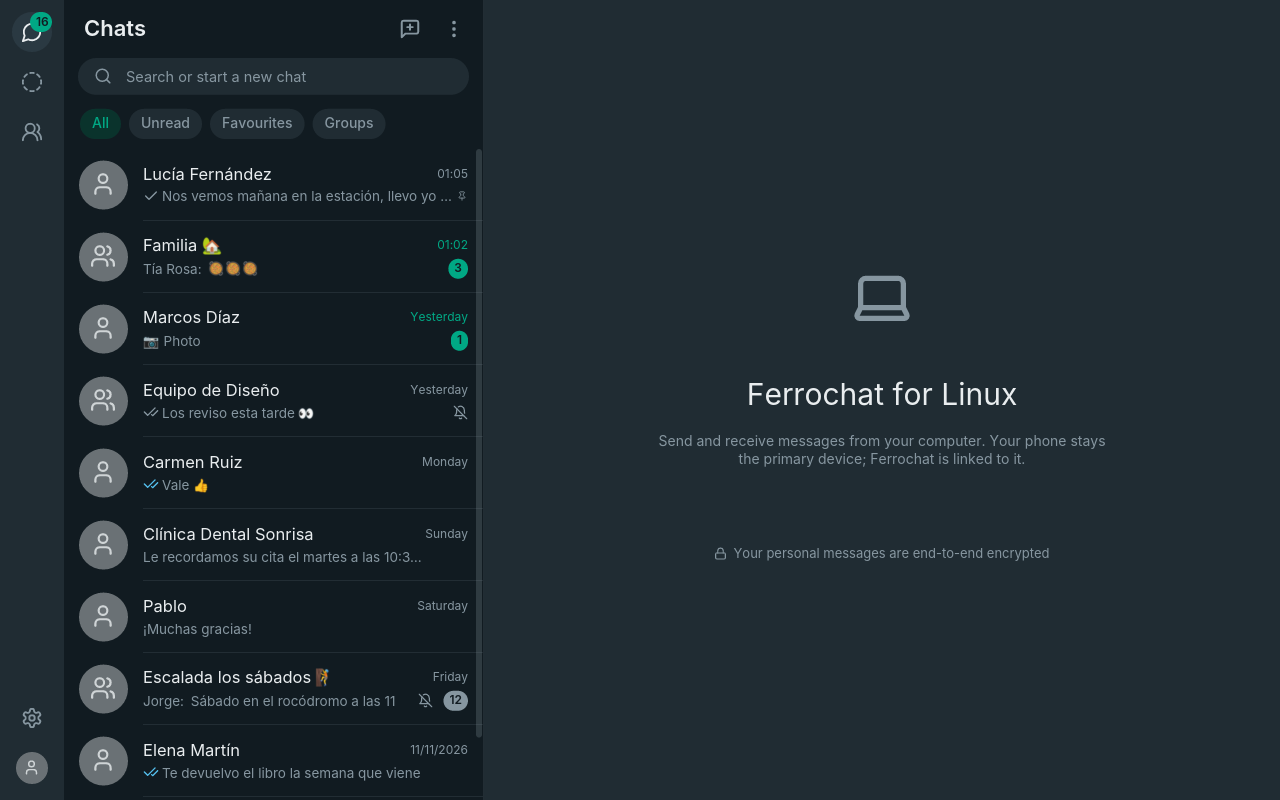
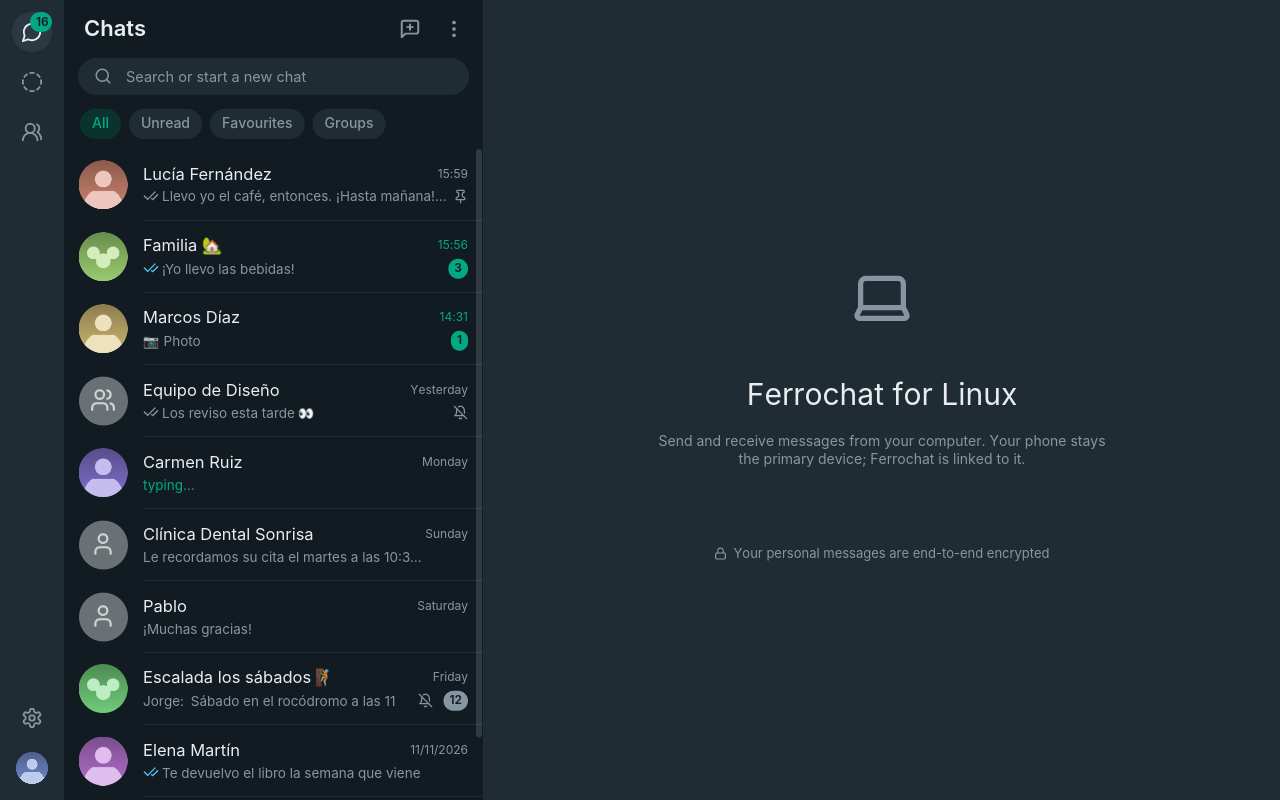
docs: describe the parity features and refresh screenshots
Also unwrap history-stored edited messages and keep search highlighting
panic-free on odd Unicode; screenshot mode ignores the stray X pointer.

Claude-Session: https://claude.ai/code/session_011GZUAJAc8TohrBZJFGozGm

diff --git a/src/net/convert.rs b/src/net/convert.rs
@@ -21,6 +21,8 @@ pub fn base_message(msg: &wa::Message) -> &wa::Message {
             .as_option()
             .or(cur.view_once_message.as_option())
             .or(cur.document_with_caption_message.as_option())
+            // History stores an edited message as its latest content.
+            .or(cur.edited_message.as_option())
             .and_then(|f| f.message.as_option());
         match inner {
             Some(m) => cur = m,
@@ -73,6 +75,7 @@ pub fn is_view_once(msg: &wa::Message) -> bool {
             .ephemeral_message
             .as_option()
             .or(cur.document_with_caption_message.as_option())
+            .or(cur.edited_message.as_option())
             .and_then(|f| f.message.as_option())
         {
             Some(m) => cur = m,
@@ -1231,6 +1234,20 @@ mod parity_tests {
             content_from_wa(&bare),
             Some(Content::Video { media: None, .. })
         ));
+    }
+
+    #[test]
+    fn history_edited_wrapper_shows_the_latest_text() {
+        let wrapped = wa::Message {
+            edited_message: buffa_some(wa::message::FutureProofMessage {
+                message: buffa_some(build_text("latest text")),
+            }),
+            ..Default::default()
+        };
+        assert_eq!(
+            content_from_wa(&wrapped),
+            Some(Content::Text("latest text".into()))
+        );
     }
 
     #[test]

diff --git a/src/ui/chat.rs b/src/ui/chat.rs
@@ -1183,7 +1183,7 @@ pub fn highlight_spans<'a>(
     }
     let mut spans = Vec::new();
     let mut at = 0;
-    while let Some(pos) = lower[at..].find(term) {
+    while let Some(pos) = lower.get(at..).and_then(|rest| rest.find(term)) {
         let (start, end) = (at + pos, at + pos + term.len());
         if !s.is_char_boundary(start) || !s.is_char_boundary(end) {
             break;
@@ -1502,6 +1502,22 @@ pub fn viewer<'a>(app: &'a App, id: &'a str) -> El<'a> {
 #[cfg(test)]
 mod tests {
     use super::*;
+
+    #[test]
+    fn highlight_spans_split_around_matches() {
+        let spans = highlight_spans("Hola hola HOLA", "hola", Color::WHITE);
+        // plain, match, plain, match, plain, match => 3 matches + 2 gaps
+        assert_eq!(spans.len(), 5);
+        assert_eq!(
+            highlight_spans("nothing here", "zzz", Color::WHITE).len(),
+            1
+        );
+        // Characters whose lower-case form has a different length are never
+        // sliced at a wrong boundary.
+        assert_eq!(highlight_spans("İstanbul", "stan", Color::WHITE).len(), 1);
+        assert_eq!(highlight_spans("", "x", Color::WHITE).len(), 1);
+        assert_eq!(highlight_spans("ñandú ñ", "ñ", Color::WHITE).len(), 3);
+    }
 
     #[test]
     fn fit_keeps_aspect_and_bounds() {

diff --git a/src/app/mod.rs b/src/app/mod.rs
@@ -1856,17 +1856,18 @@ impl App {
         };
         let ui = |u: Ui| Task::done(Message::Ui(u));
         let mut v = Vec::new();
+        let mut hover = None;
         match target {
             ScreenshotTarget::Reply => {
                 if let (Some(a), Some(b)) = (find("Perfecto, ¡gracias!"), find("Qué pasada")) {
                     v.push(ui(Ui::StartReply(a)));
-                    v.push(ui(Ui::HoverMessage(b.clone())));
+                    hover = Some(b.clone());
                     v.push(ui(Ui::ToggleMessageMenu(b)));
                 }
             }
             ScreenshotTarget::Reactions => {
                 if let Some(a) = find("Qué pasada") {
-                    v.push(ui(Ui::HoverMessage(a.clone())));
+                    hover = Some(a.clone());
                     v.push(ui(Ui::ToggleReactionPicker(a)));
                 }
             }
@@ -1882,6 +1883,7 @@ impl App {
             }
             _ => {}
         }
+        self.hovered = hover;
         v
     }
 

diff --git a/src/app/actions.rs b/src/app/actions.rs
@@ -130,6 +130,10 @@ impl App {
     /// variants that belong to the core update loop.
     pub(super) fn on_ui_extra(&mut self, ui: Ui) -> Result<Task<Message>, Ui> {
         Ok(match ui {
+            // Screenshots script their own hover; a stray X pointer must not move it.
+            Ui::HoverMessage(_) | Ui::UnhoverMessage(_) if self.cfg.screenshot.is_some() => {
+                Task::none()
+            }
             Ui::HoverMessage(id) => {
                 self.hovered = Some(id);
                 Task::none()

diff --git a/docs/protocol.md b/docs/protocol.md
@@ -51,9 +51,19 @@ conversion lives in pure functions in `src/net/convert.rs`.
 | `TemporaryBan`, `ClientOutdated` | `Fatal` | shown on the login screen |
 | `Messages` | `LidMappings` + `Messages { origin: Live \| Offline }` | stored first; ids the store did not have count as unread (live and offline-drained alike); one notification per live message, one summary per offline drain |
 | `Receipt` | `Receipt` or `ChatRead` (read-self) | tick state machine |
-| `HistorySync` | `LidMappings` + `History` / `Messages { origin: History }` in chunks of 500 | chats, names, cached messages; never counted as unread |
+| `HistorySync` | `LidMappings` + `History` / `Messages { origin: History }` in chunks of 500 | chats, names, cached messages (with their reactions and quotes); never counted as unread |
+| `Messages` with a reaction | `Reaction { chat, target, reactor, emoji, ts }` | one reaction per reactor, newest wins, empty emoji removes it |
+| `Messages` with `protocolMessage{MESSAGE_EDIT}` | `Edited { chat, id, sender, from_me, content }` | applied only when `sender` sent the original; "Edited" marker |
+| `Receipt` in a group | `Receipt { participant: Some(..) }` | stored per participant; the tick is the aggregate (see below) |
+| `ChatPresence` | `ChatState { chat, participant, state }` | "typing…" / "recording audio…" in the header and the chat list; expires after 10 s |
+| `Presence` | `Presence { jid, online, last_seen }` | "online" / "last seen …" under the contact name |
+| `PictureUpdate` | `PictureChanged { jid }` | drops the cached picture and refetches |
+| `DeleteMessageForMeUpdate` | `DeletedForMe { chat, id }` | removes the message from the cache |
 | `PushNameUpdate`, `ContactUpdate` | `ContactName` | display names |
 | `MarkChatAsReadUpdate` | `ChatRead` | badge cleared |
+
+Reactions, edits and "delete for me" events wait until the message batch that
+may contain their target is in the cache (`App::deferred`).
 
 Message bodies handled: `conversation`, `extendedTextMessage`,
 `imageMessage`, `documentMessage` (also wrapped in
@@ -64,9 +74,43 @@ the same participant otherwise; group-admin revokes are ignored because they
 cannot be verified locally). Ephemeral wrappers are unwrapped; disappearing
 messages carry `expires_at` and are pruned from the cache when it passes.
 **View-once** messages are rendered as "View once message: open it on your
-phone": their media reference is never exposed, downloaded or stored. Video, stickers, locations,
-contacts and polls show an "unsupported" placeholder; reactions and key
-distribution messages are not bubbles.
+phone": their media reference is never exposed, downloaded or stored.
+`videoMessage` (and round video notes) show the inline JPEG thumbnail and the
+duration; a click downloads the file (capped at 100 MB) into the cache
+directory and opens it with the system player (`open` crate, extension from an
+allowlist). `stickerMessage` is downloaded (cap 2 MB, 1 Mpx), decoded to RGBA
+and drawn statically; animated stickers show their first frame. Locations,
+contacts and polls show an "unsupported" placeholder; key distribution
+messages are not bubbles. Replies come from `contextInfo` (`stanzaId`,
+`participant`, `quotedMessage`) and are rendered as a quote above the text; a
+click jumps to the original, loading the cache around it when needed.
+
+### 2.1 What we send
+
+| Action | Library call | Notes |
+|---|---|---|
+| Reply | `send_message_with_options` with `ExtendedTextMessage.contextInfo` | the quoted body is the one-line preview, so media quotes arrive as text on the other side |
+| React / remove | `Client::send_reaction` (empty emoji removes) | groups carry the original author as `participant` |
+| Edit | `Client::edit_message` | only text, 15 minutes after sending |
+| Delete for everyone | `Client::revoke_message(Sender)` | 2 days 12 hours after sending |
+| Delete for me | `chat_actions().delete_message_for_me` | app-state sync to our other devices |
+| Typing / recording | `chatstate().send_composing / send_recording / send_paused` | `composing` when typing starts, again every 10 s while it continues, `paused` after 5 s idle, on send, when the field empties and when the chat is closed |
+| Presence | `presence().subscribe` when a DM is opened | the library announces us as available itself |
+| Profile pictures | `contacts().get_profile_picture(preview)` + one GET through the library's HTTP client | max 3 lookups at once, only for rows on screen |
+| Group size | `groups().query_info` (cached by the library) | for the aggregate ticks |
+
+The 10 s / 5 s typing timings and the 15 min / 2.5 day windows follow what
+WhatsApp Web does as far as we know; they are constants in `app/live.rs` and
+`net/types.rs` and have not been checked against a live account.
+
+### 2.2 Group ticks
+
+WhatsApp sends one receipt per participant. Ferrochat stores them
+(`receipts` table) and shows two grey ticks once every other participant has
+received the message and blue ticks once every other participant has read it.
+The participant count (everyone but us) comes from the library's group
+metadata; until it is known no group message advances past one tick. Direct
+chats are unchanged.
 
 ## 3. What lands on disk
 
@@ -75,6 +119,8 @@ distribution messages are not bubbles.
 | OS keyring, service `dev.ferro.ferrochat`, account `signal-store-key` | 256-bit random key (hex) for the session store | Secret Service (KWallet / GNOME Keyring), Keychain, Credential Manager |
 | `$XDG_DATA_HOME/ferrochat/session.sqlcipher` (+ `-wal`, `-shm`) | The library's whole Signal / device state: identity key pair, noise key, signed pre-keys, sessions, sender keys, app-state sync keys, LID mappings | **SQLCipher** (AES-256, HMAC per page) keyed with the raw key above (`PRAGMA key = "x'…'"`, no PBKDF2). File mode 0600. Tested: no `SQLite format 3` header and no schema text in the file; a wrong key is rejected. |
 | `$XDG_DATA_HOME/ferrochat/cache.sqlite3` (+ `-wal`, `-shm`) | Cache: chats, message bodies, media references (CDN path + per-file media key, needed to download later), contact names, own JID | Plain SQLite, mode 0600, like the official desktop client's local database. Deletable at any time; rebuilt from history sync. Never contains credentials or Signal keys. |
+| `$XDG_CACHE_HOME/ferrochat/avatars/*.img` / `*.none` | Profile picture previews (JPEG as served) and "no picture" markers. File names are a hash of the JID. Refreshed after 7 days / 12 h or when the contact changes the picture; at most 1500 files and 32 MB; deleted on logout | Directory 0700 |
+| `$XDG_CACHE_HOME/ferrochat/videos/*` | The last four videos you opened (or 400 MB) so the system player can read them | Directory 0700 |
 | `$XDG_STATE_HOME/ferrochat/log` (rotated at 5 MB) | Logs | Bodies, phone numbers, QR payloads, keys and file names are redacted (`Redacted`, `MaskedJid`, manual `Debug` impls; covered by `tests/redaction.rs`). |
 | `~/Downloads/<name>` | Documents the user opened | Only on explicit click. |
 
@@ -84,7 +130,7 @@ and images are probed (header only) and rejected above 40 Mpx before
 decoding. Notification titles and bodies are markup-escaped (`&`, `<`, `>`)
 because KDE renders a subset of HTML in them.
 
-Images and voice notes are kept in memory only (byte-bounded LRUs: 48 MB
+Decoded profile pictures live in a 12 MB LRU (96x96 tiles, round). Images and voice notes are kept in memory only (byte-bounded LRUs: 48 MB
 images, 16 MB decoded audio) and re-downloaded after a restart.
 
 The session store is **never deleted automatically** except on a real

diff --git a/docs/architecture.md b/docs/architecture.md
@@ -249,7 +249,8 @@ widgets or `ui`:
 
 | Module | Purpose |
 |---|---|
-| `src/media/` | Ogg/Opus voice notes (decode, encode, waveform), `rodio` playback thread, `cpal` microphone capture, JPEG thumbnails, the byte-budgeted `ByteLru`. |
+| `src/media/` | Ogg/Opus voice notes (decode, encode, waveform), `rodio` playback thread, `cpal` microphone capture, JPEG thumbnails, profile-picture tiles and their disk cache, the byte-budgeted `ByteLru`. |
+| `src/app/actions.rs`, `src/app/live.rs` | User actions (reply, react, edit, delete, search, jump, avatars, group receipts) and the pure typing / presence state machines. |
 | `src/notify.rs` | Desktop notifications (`notify-rust`), opening files with `xdg-open`, file-name sanitising. |
 
 `src/net/` contains `types.rs` (domain types), `convert.rs` (pure protobuf ↔
@@ -269,13 +270,17 @@ tests). The app only sees the `WaClient` trait and the `net::Event` stream.
    └─ keyring / pairing errors inline       ├─ Chat list: header (new chat, ⋮ menu → Log out),
                                             │   search, chips (All / Unread / Favourites / Groups),
                                             │   connection + sync banners, rows
-                                            └─ Conversation: header, E2E notice, day chips,
-                                                bubbles (text / image / document / voice),
-                                                emoji panel, composer (+, 😊, text, mic ↔ send),
-                                                image viewer overlay
+                                            └─ Conversation: header (name, typing / online / last
+                                                seen, search), E2E notice, day chips, bubbles (text /
+                                                image / video / sticker / document / voice) with quote,
+                                                reaction badge and hover actions, floating reaction
+                                                picker and message menu, in-chat search bar, reply /
+                                                edit bar, emoji panel, composer (+, 😊, text, mic ↔
+                                                send), image viewer, delete / reactions dialogs
 ```
 
-Keyboard: `Enter` sends, `Esc` closes overlays, then the open chat.
+Keyboard: `Enter` sends (or saves an edit), `Esc` closes the topmost layer (dialog, popup,
+viewer, search, reply / edit bar), then the open chat.
 
 ### 11.3 Palette (dark, default)
 

diff --git a/CLAUDE.md b/CLAUDE.md
@@ -9,7 +9,7 @@ the `net::WaClient` trait. Unofficial: third-party clients can get accounts bann
 - `cargo build` / `cargo build --release` (use `CARGO_BUILD_JOBS=2` on shared hosts)
 - `cargo fmt --check && cargo clippy --all-targets -- -D warnings && cargo test`
 - `cargo run -- --mock` (fake protocol + mock data, no network, no disk writes)
-- Screenshots: `ICED_BACKEND=tiny-skia xvfb-run -a -s "-screen 0 1280x800x24" ./target/debug/ferrochat --screenshot <login|chats|chat> docs/screenshots/<name>.png`
+- Screenshots: `ICED_BACKEND=tiny-skia xvfb-run -a -s "-screen 0 1280x800x24" ./target/debug/ferrochat --screenshot <login|chats|chat|reply|reactions|chat-search|list-search|delete> docs/screenshots/<name>.png`
 - Regenerate fixtures: `cargo test --test gen_fixtures -- --ignored`
 
 ## Architecture
@@ -22,7 +22,8 @@ See `docs/architecture.md` (shared Ferro* skeleton + §11 app specifics) and
 - No `unwrap`/`expect` outside tests (crate lints deny them).
 - Only `auth/secrets.rs` touches `keyring`. Never log bodies, JIDs, keys, QR codes:
   use `Redacted`, `MaskedJid`, redacting `Debug` impls.
-- Pure logic goes in `app/state.rs`, `net/convert.rs`, `net/types.rs` with unit tests.
+- Pure logic goes in `app/state.rs`, `app/live.rs`, `net/convert.rs`, `net/types.rs`
+  with unit tests; user actions live in `app/actions.rs`.
 - Every new crate needs a one-line justification in the PR.
 
 ## Workflow quirks
@@ -42,6 +43,14 @@ entry id: `dev.ferro.ferrochat`.
   linked statically (`.cargo/config.toml`, needs `cmake`).
 - Never delete the session store except on a real logout; see `docs/protocol.md` §3.
 - `scrollable().anchor_bottom()` reverses offsets: "bottom" is `RelativeOffset::START`.
+- The default `tiny-skia` renderer ignores image corner radii: round avatars are
+  masked into the RGBA tile (`media::avatar::circle_mask`).
+- Message popups (reactions / menu) float in a stack layer placed from the row's
+  on-screen bounds (`actions::Locate`); a scroll closes them. Jumping to a message
+  uses the same operation plus `scroll_to` (offsets count from the newest end).
+- Reactions/edits wait for pending message inserts (`App::deferred`), otherwise
+  they race the cache write and are lost.
+- Group ticks: per-participant receipts are stored; blue only when all read.
 - iced style fns returning `impl Fn` need `+ use<>` (edition 2024 captures).
 - Keep iced default features on (x11/wayland backends).
 - No Secret Service in CI: tests use `MemoryStore`.

diff --git a/README.md b/README.md
@@ -17,6 +17,10 @@ dark theme.
 
 ![Chat](docs/screenshots/chat.png)
 
+| Reply and menu | Reactions | Search in chat |
+|---|---|---|
+| ![](docs/screenshots/reply.png) | ![](docs/screenshots/reactions.png) | ![](docs/screenshots/chat-search.png) |
+
 ## Features
 
 * QR-code pairing as a linked device (codes refresh automatically, reload
@@ -29,6 +33,18 @@ dark theme.
   mic button, play back with a waveform).
 * Read receipts, both ways: grey / blue ticks on your messages, read and
   played receipts sent when you open a chat or play a voice note.
+* Profile pictures for chats and contacts (bounded in-memory LRU plus a disk
+  cache; the grey default stays as the fallback).
+* Replies (quoted message, click to jump, reply bar), reactions (badge, who
+  reacted, hover picker, send and remove), edit (15 min) and delete for me /
+  for everyone, "Edited" marker.
+* Typing and recording indicators, online / last seen, and our own throttled
+  "typing…" presence.
+* Search in the chat list (chats and cached messages) and inside a chat, with
+  jump to the result.
+* Video (thumbnail and duration, opens in the system player) and stickers
+  (WebP, static; animated ones show their first frame).
+* Group ticks turn blue only once every participant has read the message.
 * Desktop notifications (sender + preview, or sender only).
 
 See [docs/protocol.md](docs/protocol.md) for what works, what is stored on
